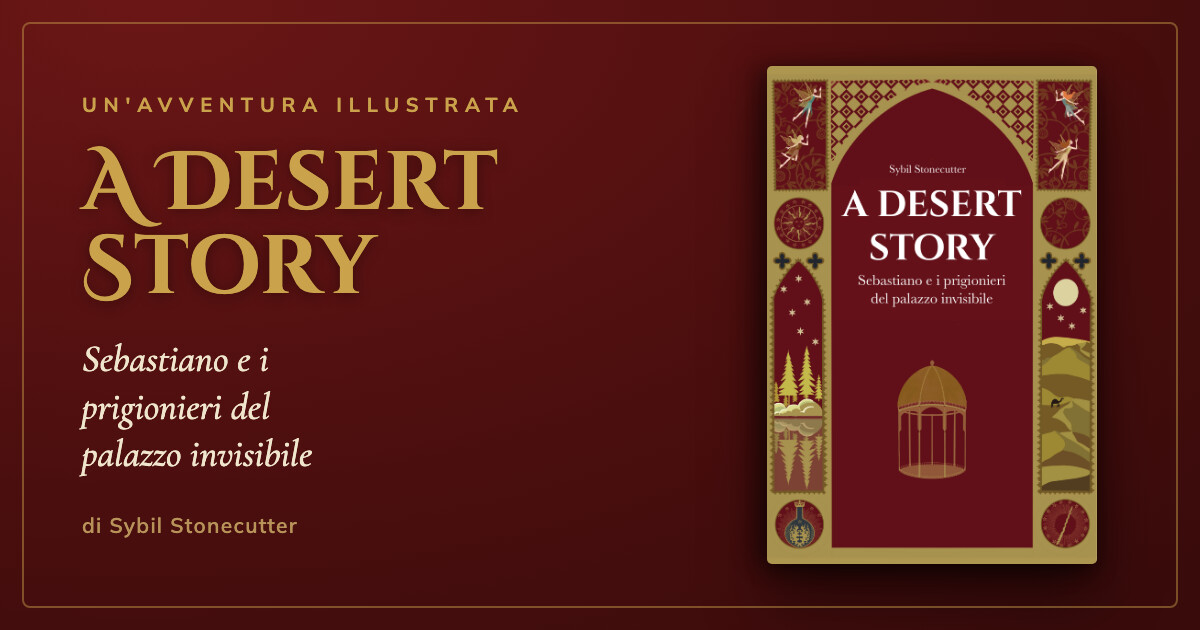
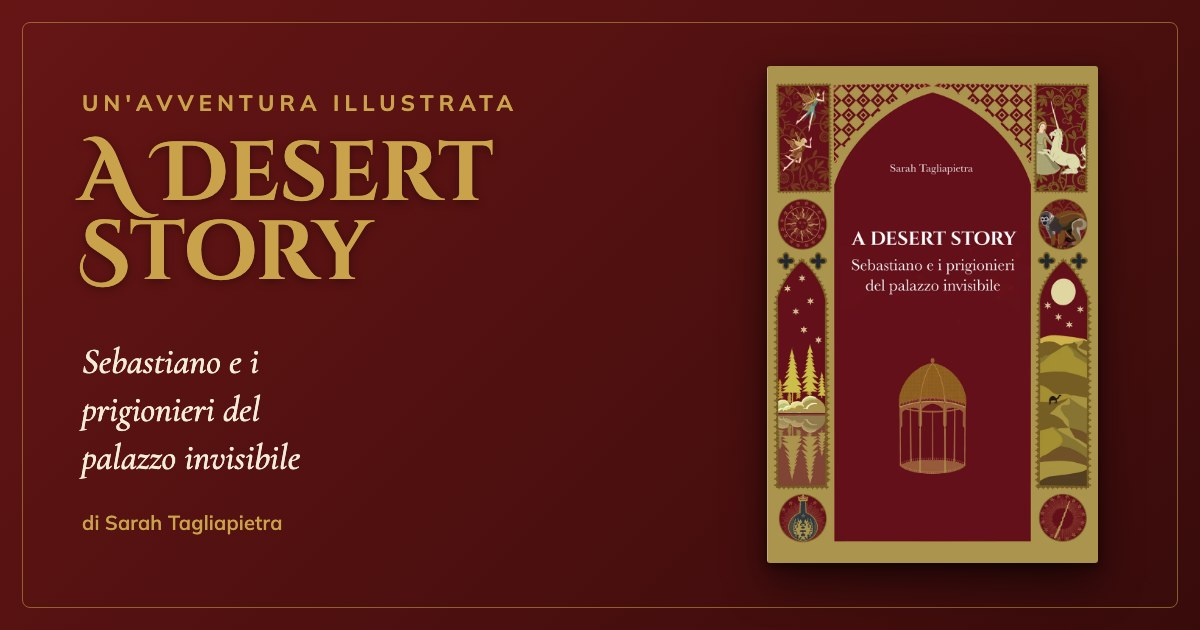
Aggiorna l'immagine di anteprima del sito
L'anteprima portava ancora il nome ritirato dell'autrice e la copertina
vecchia. Ora ha la copertina attuale e «di Sarah Tagliapietra».
L'indirizzo passa a og.jpg?v=2 per scavalcare la cache dei social.

diff --git a/en/index.html b/en/index.html
@@ -17,7 +17,7 @@
 <meta property="og:type" content="book">
 <meta property="og:title" content="A Desert Story · Sebastiano and the Prisoners of the Invisible Palace">
 <meta property="og:description" content="An illustrated novel for young readers. Ten-year-old Sebastiano can talk to animals and journeys into the desert to free them from an invisible palace.">
-<meta property="og:image" content="https://adesertstory.com/img/og.jpg">
+<meta property="og:image" content="https://adesertstory.com/img/og.jpg?v=2">
 <meta property="og:image:width" content="1200">
 <meta property="og:image:height" content="630">
 <meta property="og:image:alt" content="Cover of A Desert Story, by Sarah Tagliapietra.">
@@ -28,7 +28,7 @@
 <meta name="twitter:card" content="summary_large_image">
 <meta name="twitter:title" content="A Desert Story · Sebastiano and the Prisoners of the Invisible Palace">
 <meta name="twitter:description" content="An illustrated novel for young readers. Ten-year-old Sebastiano can talk to animals and journeys into the desert to free them from an invisible palace.">
-<meta name="twitter:image" content="https://adesertstory.com/img/og.jpg">
+<meta name="twitter:image" content="https://adesertstory.com/img/og.jpg?v=2">
 <link rel="stylesheet" href="../fonts/fonts.css">
 <link rel="stylesheet" href="/consent/consent.css">
 <style>

diff --git a/index.html b/index.html
@@ -17,7 +17,7 @@
 <meta property="og:type" content="book">
 <meta property="og:title" content="A Desert Story · Sebastiano e i prigionieri del palazzo invisibile">
 <meta property="og:description" content="Un romanzo illustrato per ragazzi. Sebastiano, dieci anni, parla con gli animali e parte nel deserto per liberarli dal palazzo invisibile.">
-<meta property="og:image" content="https://adesertstory.com/img/og.jpg">
+<meta property="og:image" content="https://adesertstory.com/img/og.jpg?v=2">
 <meta property="og:image:width" content="1200">
 <meta property="og:image:height" content="630">
 <meta property="og:image:alt" content="Copertina di A Desert Story, di Sarah Tagliapietra.">
@@ -28,7 +28,7 @@
 <meta name="twitter:card" content="summary_large_image">
 <meta name="twitter:title" content="A Desert Story · Sebastiano e i prigionieri del palazzo invisibile">
 <meta name="twitter:description" content="Un romanzo illustrato per ragazzi. Sebastiano, dieci anni, parla con gli animali e parte nel deserto per liberarli dal palazzo invisibile.">
-<meta name="twitter:image" content="https://adesertstory.com/img/og.jpg">
+<meta name="twitter:image" content="https://adesertstory.com/img/og.jpg?v=2">
 <link rel="stylesheet" href="fonts/fonts.css">
 <link rel="stylesheet" href="/consent/consent.css">
 <style>

diff --git a/estratto/index.html b/estratto/index.html
@@ -14,14 +14,14 @@
 <meta property="og:type" content="book">
 <meta property="og:title" content="A Desert Story · L'estratto">
 <meta property="og:description" content="Sfoglia l'estratto di A Desert Story: copertina, primo atto e le tavole illustrate di Sarah Tagliapietra.">
-<meta property="og:image" content="https://adesertstory.com/img/og.jpg">
+<meta property="og:image" content="https://adesertstory.com/img/og.jpg?v=2">
 <meta property="og:image:width" content="1200">
 <meta property="og:image:height" content="630">
 <meta property="og:url" content="https://adesertstory.com/estratto/">
 <meta property="og:locale" content="it_IT">
 <meta property="og:site_name" content="A Desert Story">
 <meta name="twitter:card" content="summary_large_image">
-<meta name="twitter:image" content="https://adesertstory.com/img/og.jpg">
+<meta name="twitter:image" content="https://adesertstory.com/img/og.jpg?v=2">
 <link rel="stylesheet" href="../fonts/fonts.css">
 <link rel="stylesheet" href="/consent/consent.css">
 <style>
